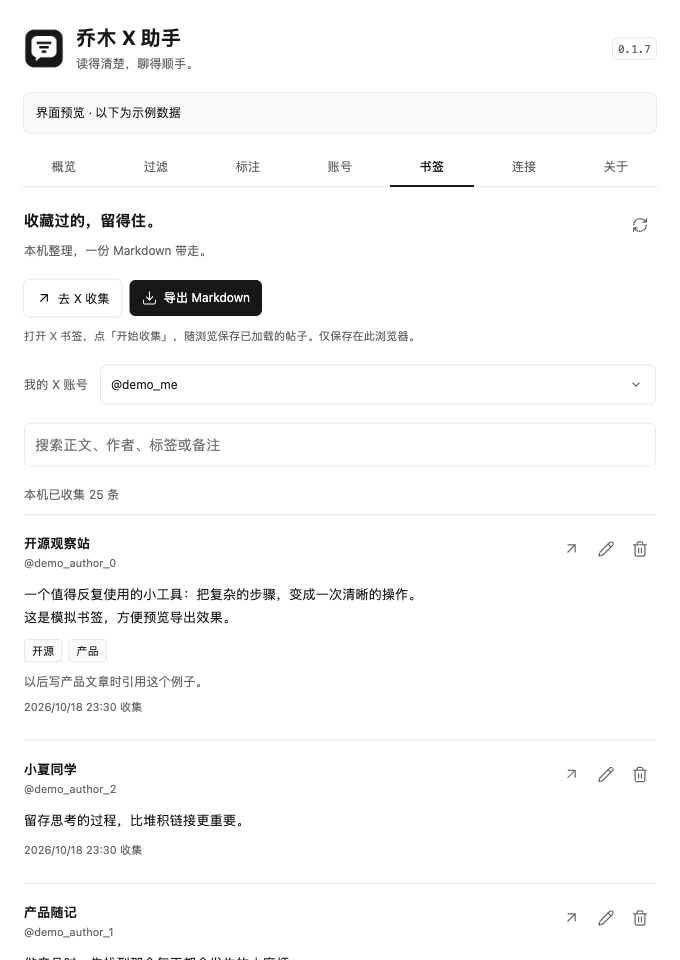
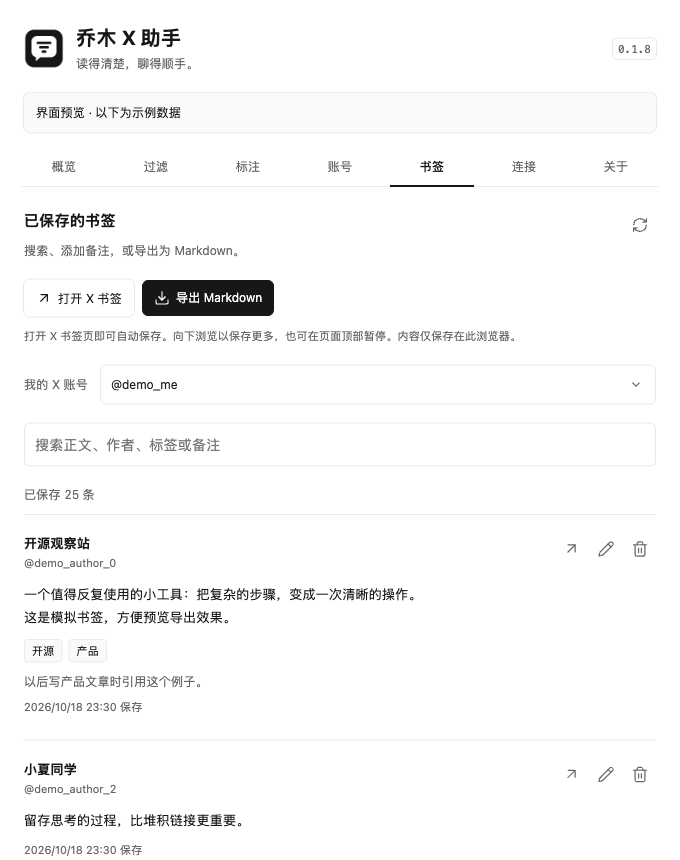
fix: auto-save bookmarks with sticky progress and remembered pause

diff --git a/src/bookmark-content.js b/src/bookmark-content.js
@@ -1,22 +1,61 @@
-import { createElement, Bookmark, ArrowUpRight } from 'lucide';
+import { createElement, BookmarkCheck, ArrowUpRight } from 'lucide';
 import { bookmarkPath } from './bookmarks.js';
 import { extractBookmark } from './bookmark-dom.js';
 import { currentOwner } from './composer.js';
 const send=async m=>{const r=await chrome.runtime.sendMessage(m);if(!r?.ok)throw Error(r?.error||'扩展已更新，请刷新 X。');return r.data;};
 const el=(tag,text)=>{const n=document.createElement(tag);if(text)n.textContent=text;return n;};
-let host,root,status,toggle,open,active=false,owner='',route='',generation=0,busy=false,dirty=false,timer=null,total=0;
-const seen=new Map(),sessionIds=new Set();
-function stop(){active=false;generation++;if(toggle){toggle.textContent='继续收集';toggle.setAttribute('aria-pressed','false');}}
+let host,title,status,toggle,open,active=false,owner='',route='',generation=0,busy=false,dirty=false,timer=null,total=null;
+let mode='loading',error='',configuring=false,headers=[],positionFrame=0,accountChanged=false;
+const seen=new Map();
+function stop(){active=false;generation++;}
+function render(){
+  if(!host)return;
+  title.textContent=total===null?(mode==='account'?'已停止保存':mode==='login'?'自动保存书签':mode==='error'?'暂时无法保存':'正在读取书签…'):`已保存 ${total.toLocaleString()} 条`;
+  status.textContent=error||(mode==='loading'?'正在读取保存进度…':mode==='paused'?'已暂停 · 点击继续保存':mode==='account'?'账号已切换，刷新页面后继续。':mode==='login'?'登录 X 后，自动保存浏览到的书签。':'继续向下浏览，自动保存更多。');
+  toggle.textContent=mode==='error'?'重试':active?'暂停':'继续保存';
+  toggle.setAttribute('aria-pressed',String(active));toggle.setAttribute('aria-label',active?'暂停自动保存书签':mode==='error'?'重试保存书签':'继续自动保存书签');
+  toggle.disabled=configuring||['loading','account','login'].includes(mode);
+}
 function appearance(){if(!host)return;const rgb=getComputedStyle(document.body).backgroundColor.match(/\d+/g)?.slice(0,3).map(Number),dark=rgb&&rgb.reduce((a,b)=>a+b,0)<350;host.setAttribute('data-theme',dark?'dark':'light');}
+function discoverHeaders(main){
+  const found=new Set();
+  for(const anchor of main.querySelectorAll('nav,[role=navigation],[role=tablist],h1,h2,[role=heading]')){
+    if(anchor.closest('article')||!(anchor.compareDocumentPosition(host)&Node.DOCUMENT_POSITION_FOLLOWING))continue;
+    for(let n=anchor;n&&n!==main;n=n.parentElement)if(['sticky','fixed'].includes(getComputedStyle(n).position))found.add(n);
+  }
+  headers=[...found];position();
+}
+function position(){
+  if(positionFrame)return;
+  positionFrame=requestAnimationFrame(()=>{positionFrame=0;if(!host?.isConnected)return;
+    const bottom=Math.max(0,...headers.filter(n=>n.isConnected).map(n=>{const r=n.getBoundingClientRect();return r.top<innerHeight/2&&r.height<innerHeight/2?r.bottom:0;}));
+    const value=`${Math.max(0,Math.ceil(bottom))}px`;
+    if(host.style.getPropertyValue('--qb-top')!==value)host.style.setProperty('--qb-top',value);
+  });
+}
 function mount(region){
   if(host?.isConnected)return;
-  host=el('div');host.className='qm-bookmarks-host';root=host.attachShadow({mode:'open'});
-  const style=el('style');style.textContent=`:host{display:block;flex:none;min-width:0;--bg:#fff;--ink:#171717;--muted:#666;--line:#eaeaea;--soft:#f5f5f5;color:var(--ink);background:var(--bg);font:13px/1.5 -apple-system,BlinkMacSystemFont,"Segoe UI","PingFang SC",sans-serif}:host([data-theme=dark]){--bg:#111;--ink:#ededed;--muted:#aaa;--line:#333;--soft:#222}*{box-sizing:border-box}section{padding:14px 16px;border-bottom:1px solid var(--line);display:flex;align-items:center;gap:14px;flex-wrap:wrap}.info{flex:1;min-width:140px}b{display:flex;align-items:center;gap:7px;font-size:13px;font-weight:600}p{margin:4px 0 0;color:var(--muted);font-size:12px}button{appearance:none;border:0;border-radius:6px;padding:8px 10px;color:var(--ink);background:var(--soft);cursor:pointer;font:inherit;font-size:12px;display:inline-flex;align-items:center;justify-content:center;gap:4px}button:hover{filter:brightness(.94)}button:active{filter:brightness(.88)}button:focus-visible{outline:1px solid var(--muted);outline-offset:2px}button[aria-pressed=true]{background:var(--ink);color:var(--bg)}.actions{display:flex;gap:6px;flex-wrap:wrap}svg{width:15px;height:15px;flex:none}button:disabled{opacity:.5;cursor:wait}`;
-  const section=el('section'),info=el('div');info.className='info';const title=el('b','书签，留一份在本机');title.prepend(createElement(Bookmark,{'aria-hidden':'true','stroke-width':1.7}));status=el('p','点击开始，向下浏览时收集已加载的书签。');status.setAttribute('role','status');info.append(title,status);
-  const actions=el('div');actions.className='actions';toggle=el('button','开始收集');toggle.type='button';toggle.setAttribute('aria-pressed','false');
-  open=el('button','查看 / 导出');open.type='button';open.append(createElement(ArrowUpRight,{'aria-hidden':'true','stroke-width':1.7}));if(active){toggle.textContent='暂停收集';toggle.setAttribute('aria-pressed','true');}actions.append(toggle,open);section.append(info,actions);root.append(style,section);region.before(host);appearance();
-  toggle.onclick=()=>{if(active){stop();status.textContent=`已暂停 · 本次读取 ${sessionIds.size} 条 · 本机 ${total} 条`;return;}const current=currentOwner();if(!current){status.textContent='先登录 X，再开始收集。';return;}if(current!==owner){seen.clear();sessionIds.clear();total=0;}owner=current;route=location.pathname;active=true;generation++;toggle.textContent='暂停收集';toggle.setAttribute('aria-pressed','true');status.textContent='正在收集。继续向下浏览即可。';void collect();};
-  open.onclick=async()=>{open.disabled=true;try{await send({type:'options',page:'bookmarks'});}catch(e){status.textContent=e.message;}finally{open.disabled=false;}};
+  host=el('div');host.className='qm-bookmarks-host';const root=host.attachShadow({mode:'open'});
+  const style=el('style');style.textContent=`:host{display:block;container-type:inline-size;position:sticky;top:var(--qb-top,0px);z-index:2;flex:none;min-width:0;--bg:#fff;--ink:#171717;--muted:#666;--line:#eaeaea;--soft:#f5f5f5;color:var(--ink);background:var(--bg);font:13px/1.5 -apple-system,BlinkMacSystemFont,"Segoe UI","PingFang SC",sans-serif}:host([data-theme=dark]){--bg:#111;--ink:#ededed;--muted:#aaa;--line:#333;--soft:#222}*{box-sizing:border-box}section{padding:12px 16px;border-bottom:1px solid var(--line);display:flex;align-items:center;gap:10px 16px;flex-wrap:wrap;background:var(--bg)}.info{flex:1;min-width:120px}.headline{display:flex;align-items:center;gap:7px}b{font-size:13px;font-weight:600;font-variant-numeric:tabular-nums}p{margin:3px 0 0;color:var(--muted);font-size:12px}button{appearance:none;border:0;border-radius:6px;padding:8px 10px;color:var(--ink);background:var(--soft);cursor:pointer;font:inherit;font-size:12px;display:inline-flex;align-items:center;justify-content:center;gap:4px;min-height:34px}button:hover{filter:brightness(.94)}button:active{filter:brightness(.88)}button:focus-visible{outline:1px solid var(--muted);outline-offset:2px}.toggle{min-width:68px;background:transparent}.toggle:hover{background:var(--soft)}.actions{display:flex;gap:6px;flex:none}svg{width:15px;height:15px;flex:none}button:disabled{opacity:.5;cursor:default}@container(max-width:420px){p{min-height:36px}}`;
+  const section=el('section'),info=el('div');info.className='info';const headline=el('div');headline.className='headline';title=el('b');headline.append(createElement(BookmarkCheck,{'aria-hidden':'true','stroke-width':1.7}),title);status=el('p');info.append(headline,status);info.setAttribute('role','status');info.setAttribute('aria-live','polite');
+  const actions=el('div');actions.className='actions';toggle=el('button');toggle.className='toggle';toggle.type='button';
+  open=el('button','查看 / 导出');open.type='button';open.append(createElement(ArrowUpRight,{'aria-hidden':'true','stroke-width':1.7}));actions.append(toggle,open);section.append(info,actions);root.append(style,section);region.before(host);appearance();render();discoverHeaders(region.closest('[data-testid=primaryColumn]'));
+  toggle.onclick=()=>void configure(!active);
+  open.onclick=async()=>{open.disabled=true;try{await send({type:'options',page:'bookmarks'});}catch(e){error=e.message;render();}finally{open.disabled=false;}};
+}
+async function initialize(){
+  stop();mode=owner?'loading':'login';error='';total=null;render();if(!owner)return;
+  const gen=generation,who=owner,path=route;
+  try{const result=await send({type:'bookmarks-status',owner:who});if(gen!==generation||currentOwner()!==who||location.pathname!==path)return;
+    total=result.count;active=result.automatic;mode=active?'active':'paused';render();if(active)void collect();
+  }catch(e){if(gen===generation){mode='error';error=`无法读取进度：${e.message}`;render();}}
+}
+async function configure(automatic){
+  if(configuring||!owner)return;stop();configuring=true;error='';render();const gen=generation,who=owner,path=route;
+  try{const result=await send({type:'bookmarks-configure',owner:who,automatic});if(gen!==generation||currentOwner()!==who||location.pathname!==path)return;
+    total=result.count;active=result.automatic;mode=active?'active':'paused';
+  }catch(e){if(gen===generation){mode='error';error=`未能保存设置：${e.message}`;}}
+  finally{configuring=false;render();if(active)void collect();}
 }
 async function collect(){
   if(!active)return;if(busy){dirty=true;return;}busy=true;dirty=false;const gen=generation,who=owner;
@@ -26,24 +65,32 @@ async function collect(){
     for(let i=0;i<entries.length;i+=40){
       if(!active||gen!==generation||currentOwner()!==who||location.pathname!==route||!bookmarkPath(location.pathname))return;
       const batch=entries.slice(i,i+40),r=await send({type:'bookmarks-capture',owner:who,items:batch.map(v=>v.item)});
-      if(gen!==generation)return;
-      batch.forEach(({item,stamp})=>{seen.set(item.id,stamp);sessionIds.add(item.id);});while(seen.size>1000)seen.delete(seen.keys().next().value);
-      total=r.count;
+      if(gen!==generation||currentOwner()!==who||location.pathname!==route)return;
+      total=r.count;if(r.automatic===false){stop();mode='paused';render();return;}
+      batch.forEach(({item,stamp})=>seen.set(item.id,stamp));while(seen.size>1000)seen.delete(seen.keys().next().value);
+      render();
     }
-    if(active&&gen===generation)status.textContent=`本次读取 ${sessionIds.size} 条 · 本机 ${total} 条 · 向下浏览继续收集`;
-  }catch(e){if(gen===generation){stop();status.textContent=e.message+' 点击继续可重试。';}}finally{busy=false;if(dirty&&active)schedule();}
+  }catch(e){if(gen===generation){stop();mode='error';error=`保存失败：${e.message}`;render();}}finally{busy=false;if(dirty&&active)schedule();}
 }
 function scan(){
   timer=null;const path=location.pathname,current=currentOwner();
-  if(!bookmarkPath(path)){stop();host?.remove();host=null;seen.clear();sessionIds.clear();owner='';return;}
-  if(active&&(owner!==current||route!==path)){stop();seen.clear();sessionIds.clear();status.textContent='页面或账号已切换，点击继续收集。';}
-  const region=document.querySelector('[data-testid="primaryColumn"] [role="region"]');if(region)mount(region);appearance();if(active)void collect();
+  if(!bookmarkPath(path)){stop();host?.remove();host=null;seen.clear();owner='';route=path;accountChanged=false;return;}
+  const region=document.querySelector('[data-testid="primaryColumn"] [role="region"]');if(!region)return;
+  const changedRoute=route!==path,changedOwner=owner!==current;
+  // On an in-place account switch the visible tweets can still belong to the
+  // previous account. Wait for a fresh page instead of copying those across.
+  if(owner&&changedOwner&&!changedRoute){stop();accountChanged=true;mode='account';error='';total=null;owner=current;seen.clear();}
+  const start=!accountChanged&&(changedRoute||changedOwner||!route);route=path;owner=current;
+  mount(region);appearance();if(!headers.length||headers.some(n=>!n.isConnected))discoverHeaders(region.closest('[data-testid=primaryColumn]'));else position();
+  if(start)void initialize();else if(active)void collect();else render();
 }
 function schedule(){if(!timer)timer=setTimeout(scan,250);}
 new MutationObserver(records=>{if(records.some(r=>!host?.contains(r.target)))schedule();}).observe(document.body,{childList:true,subtree:true,characterData:true,attributes:true,attributeFilter:['href','data-testid','aria-selected']});
 const theme=new MutationObserver(schedule);for(const n of [document.body,document.documentElement])theme.observe(n,{attributes:true,attributeFilter:['style','class']});
-window.addEventListener('popstate',schedule);window.addEventListener('scroll',schedule,{passive:true});
-// X changes SPA routes without popstate; a light route guard stops collection
-// immediately on navigation even when no relevant DOM node changed.
-setInterval(()=>{if(location.pathname!==route&&active)scan();else if(bookmarkPath(location.pathname)&&!host?.isConnected)schedule();},1000);
+chrome.runtime.onMessage?.addListener(message=>{
+  if(message.type!=='bookmarks-preference'||message.owner!==owner||configuring||accountChanged||!host?.isConnected)return;
+  stop();total=message.count;active=message.automatic;mode=active?'active':'paused';error='';render();if(active)void collect();
+});
+window.addEventListener('popstate',schedule);window.addEventListener('scroll',()=>{position();schedule();},{passive:true});window.addEventListener('resize',()=>{if(host)discoverHeaders(host.closest('[data-testid=primaryColumn]'));});
+setInterval(()=>{if(location.pathname!==route)scan();else if(bookmarkPath(location.pathname)&&!host?.isConnected)schedule();},1000);
 scan();

diff --git a/test/bookmarks-integration.test.js b/test/bookmarks-integration.test.js
@@ -17,41 +17,41 @@ function environment(){
   const dispatch=(m,url=runtime.getURL('ui.html'),isContent=false)=>new Promise(resolve=>listener(m,{id:runtime.id,url,...(isContent?{tab:{id:1},frameId:0}:{})},resolve));
   return{factory,runtime,dispatch,modelCalls:()=>modelCalls};
 }
-test('X collector requires start, records saved posts through real background, handles recycling and stops on account/route change',async()=>{
+test('X collector auto-saves through real background, handles recycling and stops on account/route change',async()=>{
   const env=environment(),dom=new JSDOM(`<a data-testid="AppTabBar_Profile_Link" href="/me"></a><main data-testid="primaryColumn"><div role="region">${post('1')}${post('2','推荐内容',false)}</div></main>`,{url:'https://x.com/i/history',runScripts:'outside-only',pretendToBeVisual:true});
   let captures=0;dom.window.chrome={runtime:{sendMessage:m=>{if(m.type==='bookmarks-capture')captures++;return env.dispatch(m,dom.window.location.href,true);}}};
   try{dom.window.eval(collector);const d=dom.window.document,root=()=>d.querySelector('.qm-bookmarks-host')?.shadowRoot;
-    await until(()=>root());await wait(300);assert.equal(captures,0,'collecting is opt-in');root().querySelector('button').click();
-    await until(()=>root().textContent.includes('本机 1 条'));assert.equal((await env.dispatch({type:'bookmarks-page',owner:'me'})).data.items.length,1);
+    await until(()=>root());
+    await until(()=>root().textContent.includes('已保存 1 条'));assert.equal((await env.dispatch({type:'bookmarks-page',owner:'me'})).data.items.length,1);
     const a=d.querySelector('article');a.querySelector('a[href*="/status/"]').href='/alice/status/3';a.querySelector('[data-testid=tweetText]').firstChild.data='回收节点的新正文';
-    await until(()=>root().textContent.includes('本机 2 条'));
+    await until(()=>root().textContent.includes('已保存 2 条'));
     d.querySelector('[data-testid=AppTabBar_Profile_Link]').href='/other';await until(()=>root().querySelector('button').getAttribute('aria-pressed')==='false');
     assert.equal((await env.dispatch({type:'bookmarks-page',owner:'other'})).data.count,0);
-    root().querySelector('button').click();await until(()=>root().textContent.includes('本机 1 条'));
+    assert.equal(root().querySelector('button').disabled,true,'old account DOM cannot be copied under the new account');
     dom.window.history.pushState(null,'','/i/history/likes');dom.window.dispatchEvent(new dom.window.PopStateEvent('popstate'));await until(()=>!root());const count=captures;
     d.querySelector('article [data-testid=tweetText]').textContent='喜欢页';await wait(300);assert.equal(captures,count);
-    assert.equal((await env.dispatch({type:'bookmarks-capture',owner:'me',items:[]},dom.window.location.href,true)).ok,false);
+    for(const type of ['bookmarks-capture','bookmarks-status','bookmarks-configure'])assert.equal((await env.dispatch({type,owner:'me',items:[],automatic:false},dom.window.location.href,true)).ok,false);
     for(const type of ['bookmarks-page','bookmarks-state','bookmarks-edit','bookmarks-remove'])assert.equal((await env.dispatch({type,owner:'me',id:'1'},'https://x.com/i/bookmarks',true)).ok,false);
     assert.equal(env.modelCalls(),0);
   }finally{dom.window.close();}
 });
 test('collector retries failed writes without marking them as saved',async()=>{
   const dom=new JSDOM(`<a data-testid="AppTabBar_Profile_Link" href="/me"></a><main data-testid="primaryColumn"><div role="region">${post('1')}</div></main>`,{url:'https://x.com/i/bookmarks',runScripts:'outside-only',pretendToBeVisual:true});let count=0;
-  dom.window.chrome={runtime:{sendMessage:async()=>++count===1?{ok:false,error:'磁盘已满'}:{ok:true,data:{count:1}}}};
-  try{dom.window.eval(collector);const root=dom.window.document.querySelector('.qm-bookmarks-host').shadowRoot;root.querySelector('button').click();await until(()=>root.textContent.includes('磁盘已满'));assert.equal(root.querySelector('button').getAttribute('aria-pressed'),'false');root.querySelector('button').click();await until(()=>root.textContent.includes('本机 1 条'));assert.equal(count,2);}finally{dom.window.close();}
+  dom.window.chrome={runtime:{sendMessage:async m=>m.type==='bookmarks-capture'?(++count===1?{ok:false,error:'磁盘已满'}:{ok:true,data:{count:1,automatic:true}}):{ok:true,data:{count:0,automatic:true}}}};
+  try{dom.window.eval(collector);const root=dom.window.document.querySelector('.qm-bookmarks-host').shadowRoot;await until(()=>root.textContent.includes('磁盘已满'));assert.equal(root.querySelector('button').getAttribute('aria-pressed'),'false');root.querySelector('button').click();await until(()=>root.textContent.includes('已保存 1 条'));assert.equal(count,2);}finally{dom.window.close();}
 });
 test('settings search, notes, export download and removal use persistent data without model calls',async()=>{
   const env=environment();await env.dispatch({type:'bookmarks-capture',owner:'me',items:Array.from({length:25},(_,n)=>({id:String(100+n),handle:'alice',displayName:'艾丽丝',text:'收藏正文 '+n}))},'https://x.com/i/bookmarks',true);
   const dom=new JSDOM(await readFile('public/ui.html','utf8'),{url:env.runtime.getURL('ui.html')+'#bookmarks',runScripts:'outside-only',pretendToBeVisual:true});
   Object.assign(dom.window,{indexedDB:env.factory,IDBKeyRange,TextEncoder,Blob});dom.window.chrome={runtime:{sendMessage:m=>env.dispatch(m)}};dom.window.confirm=()=>true;
   let downloaded;dom.window.URL.createObjectURL=blob=>{downloaded=blob;return'blob:fixture';};dom.window.URL.revokeObjectURL=()=>{};dom.window.HTMLAnchorElement.prototype.click=function(){assert.match(this.download,/x-bookmarks-me-.*\.md/);};
-  try{dom.window.eval(ui);const d=dom.window.document;await until(()=>d.querySelectorAll('.bookmark-row').length===20);assert.equal(d.querySelector('#bookmarks-count').textContent,'本机已收集 25 条');
+  try{dom.window.eval(ui);const d=dom.window.document;await until(()=>d.querySelectorAll('.bookmark-row').length===20);assert.equal(d.querySelector('#bookmarks-count').textContent,'已保存 25 条');
     d.querySelector('#bookmarks-next').click();await until(()=>d.querySelectorAll('.bookmark-row').length===5);
     d.querySelector('.bookmark-row button[aria-label="添加备注与标签"]').click();d.querySelector('#bookmark-note').value='我的阅读想法';d.querySelector('#bookmark-tags').value='开源，工具';d.querySelector('#bookmark-edit-save').click();await until(()=>d.querySelector('.bookmark-note')?.textContent==='我的阅读想法');
     d.querySelector('#bookmark-search').value='阅读想法';d.querySelector('#bookmark-search').dispatchEvent(new dom.window.Event('input'));await until(()=>d.querySelectorAll('.bookmark-row').length===1&&d.querySelector('#bookmarks-export-label').textContent==='导出搜索结果');
     d.querySelector('#bookmarks-export').click();await until(()=>downloaded);const md=await downloaded.text();assert.ok(md.includes('本次导出：1 条'));assert.ok(md.includes('我的阅读想法'));assert.ok(md.includes('开源、工具'));assert.ok(!md.includes('undefined'));assert.equal(env.modelCalls(),0);
     await env.dispatch({type:'clear'});assert.equal((await env.dispatch({type:'bookmarks-page',owner:'me'})).data.count,25);
-    d.querySelector('.bookmark-row button[aria-label="移除本机副本"]').click();await until(()=>d.querySelector('#bookmarks-count').textContent==='本机已收集 24 条');
+    d.querySelector('.bookmark-row button[aria-label="移除本机副本"]').click();await until(()=>d.querySelector('#bookmarks-count').textContent==='已保存 24 条');
   }finally{dom.window.close();}
 });
 test('bookmarks are excluded from the automatic model pipeline even with radar enabled',async()=>{
@@ -61,4 +61,37 @@ test('bookmarks are excluded from the automatic model pipeline even with radar e
     dom.window.IntersectionObserver=class{constructor(fn){this.fn=fn;}observe(target){this.fn([{target,isIntersecting:true}]);}unobserve(){}disconnect(){}};
     try{dom.window.eval(content);await wait(200);assert.deepEqual(calls,['snapshot']);assert.equal(dom.window.document.querySelector('.qb-host'),null);}finally{dom.window.close();}
   }
+});
+
+test('bookmarks save automatically on entry and remember pause after reload',async()=>{
+  const env=environment(),windows=[];
+  const open=()=>{const dom=new JSDOM(`<a data-testid="AppTabBar_Profile_Link" href="/me"></a><main data-testid="primaryColumn"><div role="region">${post('1')}</div></main>`,{url:'https://x.com/i/history',runScripts:'outside-only',pretendToBeVisual:true});windows.push(dom);dom.window.chrome={runtime:{sendMessage:m=>env.dispatch(m,dom.window.location.href,true)}};dom.window.eval(collector);return dom;};
+  try{
+    const first=open(),root=()=>first.window.document.querySelector('.qm-bookmarks-host')?.shadowRoot;
+    await until(()=>root()?.textContent.includes('已保存 1 条'));
+    assert.match(root().textContent,/继续向下浏览/);assert.equal(root().querySelector('button').textContent,'暂停');
+    root().querySelector('button').click();await until(()=>root().textContent.includes('已暂停'));
+    first.window.close();const second=open(),next=()=>second.window.document.querySelector('.qm-bookmarks-host')?.shadowRoot;
+    await until(()=>next()?.textContent.includes('已暂停'));assert.equal(next().querySelector('button').textContent,'继续保存');
+    const region=second.window.document.querySelector('[role=region]');region.insertAdjacentHTML('beforeend',post('3'));await wait(400);
+    assert.equal((await env.dispatch({type:'bookmarks-page',owner:'me'})).data.count,1);
+    next().querySelector('button').click();await until(()=>next().textContent.includes('已保存 2 条'));
+    assert.equal(env.modelCalls(),0);
+  }finally{for(const dom of windows)dom.window.close();}
+});
+
+test('late automatic status cannot restart after navigation; pause broadcasts stop another tab',async()=>{
+  const dom=new JSDOM(`<a data-testid="AppTabBar_Profile_Link" href="/me"></a><main data-testid="primaryColumn"><div role="region">${post('1')}</div></main>`,{url:'https://x.com/i/history',runScripts:'outside-only',pretendToBeVisual:true});let resolveStatus,listener,captures=0;
+  dom.window.chrome={runtime:{onMessage:{addListener:f=>listener=f},sendMessage:m=>m.type==='bookmarks-status'?new Promise(r=>resolveStatus=r):Promise.resolve({ok:true,data:{count:++captures,automatic:true}})}};
+  try{
+    dom.window.eval(collector);await until(()=>resolveStatus);
+    dom.window.history.pushState(null,'','/home');dom.window.dispatchEvent(new dom.window.PopStateEvent('popstate'));await until(()=>!dom.window.document.querySelector('.qm-bookmarks-host'));
+    resolveStatus({ok:true,data:{count:0,automatic:true}});await wait(40);assert.equal(captures,0);
+    dom.window.history.pushState(null,'','/i/bookmarks');dom.window.dispatchEvent(new dom.window.PopStateEvent('popstate'));await until(()=>dom.window.document.querySelector('.qm-bookmarks-host'));
+    resolveStatus({ok:true,data:{count:0,automatic:true}});await until(()=>captures===1);
+    listener({type:'bookmarks-preference',owner:'someone_else',automatic:false,count:20});
+    const root=dom.window.document.querySelector('.qm-bookmarks-host').shadowRoot;assert.equal(root.querySelector('button').getAttribute('aria-pressed'),'true');
+    listener({type:'bookmarks-preference',owner:'me',automatic:false,count:1});assert.match(root.textContent,/已暂停/);
+    dom.window.document.querySelector('[role=region]').insertAdjacentHTML('beforeend',post('2'));await wait(350);assert.equal(captures,1);
+  }finally{dom.window.close();}
 });

diff --git a/public/ui.html b/public/ui.html
@@ -1,7 +1,7 @@
 <!doctype html>
 <html lang="zh-CN"><head><meta charset="utf-8"><meta name="viewport" content="width=device-width, initial-scale=1"><title>乔木 X 助手</title><link rel="stylesheet" href="ui.css"></head>
 <body><main id="app">
-  <header><div class="identity"><img class="brand-icon" src="icons/icon-48.png" alt="" width="40" height="40"><div><h1>乔木 X 助手</h1><p>读得清楚，聊得顺手。</p></div></div><span class="version">0.1.7</span></header>
+  <header><div class="identity"><img class="brand-icon" src="icons/icon-48.png" alt="" width="40" height="40"><div><h1>乔木 X 助手</h1><p>读得清楚，聊得顺手。</p></div></div><span class="version">0.1.8</span></header>
   <div id="demo-note" hidden>界面预览 · 以下为示例数据</div>
   <nav aria-label="设置页面"><button data-tab="overview" class="selected">概览</button><button data-tab="rules">过滤</button><button data-tab="annotations">标注</button><button data-tab="accounts">账号</button><button data-tab="bookmarks">书签</button><button data-tab="model">连接</button><button data-tab="about">关于</button></nav>
   <div id="notice" role="status" aria-live="polite" hidden></div>
@@ -77,15 +77,15 @@
     </div>
   </section>
   <section id="bookmarks" class="panel" hidden>
-    <div class="page-heading"><div><h2>收藏过的，留得住。</h2><p class="hint">本机整理，一份 Markdown 带走。</p></div><button id="bookmarks-refresh" class="icon-control" aria-label="刷新书签" title="刷新书签" data-icon="RefreshCw"></button></div>
-    <div class="bookmark-toolbar"><a class="secondary" href="https://x.com/i/bookmarks" target="_blank" rel="noopener noreferrer"><span data-icon="ArrowUpRight"></span>去 X 收集</a><button id="bookmarks-export" class="primary" disabled><span data-icon="Download"></span><span id="bookmarks-export-label">导出 Markdown</span></button></div>
-    <p class="hint bookmark-help">打开 X 书签，点「开始收集」，随浏览保存已加载的帖子。仅保存在此浏览器。</p>
+    <div class="page-heading"><div><h2>已保存的书签</h2><p class="hint">搜索、添加备注，或导出为 Markdown。</p></div><button id="bookmarks-refresh" class="icon-control" aria-label="刷新书签" title="刷新书签" data-icon="RefreshCw"></button></div>
+    <div class="bookmark-toolbar"><a class="secondary" href="https://x.com/i/bookmarks" target="_blank" rel="noopener noreferrer"><span data-icon="ArrowUpRight"></span>打开 X 书签</a><button id="bookmarks-export" class="primary" disabled><span data-icon="Download"></span><span id="bookmarks-export-label">导出 Markdown</span></button></div>
+    <p class="hint bookmark-help">打开 X 书签页即可自动保存。向下浏览以保存更多，也可在页面顶部暂停。内容仅保存在此浏览器。</p>
     <label class="field contact-owner-field"><span>我的 X 账号</span><select id="bookmark-owner" aria-label="书签所属账号"></select></label>
     <label class="field"><span class="sr-only">搜索书签</span><input id="bookmark-search" type="search" maxlength="160" placeholder="搜索正文、作者、标签或备注"></label>
-    <div class="bookmark-count" id="bookmarks-count" role="status">本机已收集 0 条</div>
+    <div class="bookmark-count" id="bookmarks-count" role="status">已保存 0 条</div>
     <div id="bookmark-editor" class="contact-editor" hidden><h3>留一点想法，下次更好找。</h3><form id="bookmark-edit-form"><label class="field"><span>备注</span><textarea id="bookmark-note" maxlength="2000" rows="3" placeholder="为什么收藏这条？"></textarea></label><label class="field"><span>标签</span><input id="bookmark-tags" maxlength="400" placeholder="用逗号分隔，例如：开源，产品"></label><div class="button-row"><button id="bookmark-edit-save" class="primary">保存</button><button id="bookmark-edit-cancel" type="button" class="secondary">取消</button></div></form></div>
     <div id="bookmark-list" aria-live="polite"></div><div class="pagination"><button id="bookmarks-prev" class="secondary">上一页</button><span id="bookmarks-page">第 1 页</span><button id="bookmarks-next" class="secondary">下一页</button></div>
-    <p class="hint bookmark-help">数量以本机实际收集为准。长帖可能仅有未展开的片段；X 收藏时间未知，以首次收集时间记录。导出保留原帖与图片链接，视频在原帖查看。</p>
+    <p class="hint bookmark-help">这里只显示已保存的书签，不代表全部收藏。长帖请在 X 展开后保存；记录时间为首次保存时间。导出保留原帖和图片链接，视频请在原帖查看。</p>
   </section>
   <section id="model" class="panel" hidden>
     <h2>连接一次，随时可用。</h2><p class="hint">用你的 Jev 密钥开始。验证成功后会自动保存。</p>

diff --git a/src/ui-bookmarks.js b/src/ui-bookmarks.js
@@ -9,18 +9,18 @@ export function initBookmarksUI({send,notice,glyph,getStore}){
     if(reset){index=0;cursors=[null];}const gen=++epoch,list=$('bookmark-list');list.setAttribute('aria-busy','true');$('bookmarks-prev').disabled=$('bookmarks-next').disabled=true;$('bookmarks-export').disabled=true;
     try{const page=owner?await send({type:'bookmarks-page',owner,query:$('bookmark-search').value,before:cursors[index]}):{items:[],count:0,next:null};
       if(gen!==epoch)return;next=page.next;list.replaceChildren();if(!page.items.length&&index){index--;return load();}
-      $('bookmarks-count').textContent=`本机已收集 ${page.count.toLocaleString()} 条`;
-      if(!page.items.length)list.append(el('p',!owner||!page.count?'把想留住的帖子，带回来。打开 X 书签，点「开始收集」，再向下浏览。':$('bookmark-search').value?'没有找到。试试正文、作者、标签或备注。':'还没有收集到书签。','empty-state'));
+      $('bookmarks-count').textContent=`已保存 ${page.count.toLocaleString()} 条`;
+      if(!page.items.length)list.append(el('p',!owner||!page.count?'打开 X 书签页，浏览过的书签会自动保存到这里。继续向下浏览，就能保存更多。':$('bookmark-search').value?'没有找到。试试正文、作者、标签或备注。':'还没有保存书签。','empty-state'));
       for(const row of page.items){
         const card=el('article',null,'bookmark-row');card.dataset.id=row.id;
         const head=el('div',null,'bookmark-head'),person=el('div');person.append(el('b',row.displayName||'@'+row.handle),el('span','@'+row.handle));
         const actions=el('div',null,'bookmark-actions'),url=el('a',null,'icon-control');url.href=row.url;url.target='_blank';url.rel='noopener noreferrer';url.title='打开原帖';url.setAttribute('aria-label','打开原帖');url.append(glyph('ArrowUpRight'));
-        const boundOwner=owner;actions.append(url,action('添加备注与标签','Pencil',()=>edit(row)),action('移除本机副本','Trash2',async()=>{if(!confirm('移除这条本机副本？X 上的书签会保留，再次收集时可重新加入。'))return;await send({type:'bookmarks-remove',owner:boundOwner,id:row.id});await load();}));head.append(person,actions);
+        const boundOwner=owner;actions.append(url,action('添加备注与标签','Pencil',()=>edit(row)),action('移除本机副本','Trash2',async()=>{if(!confirm('移除这条本机副本？X 上的书签会保留，再次浏览时会重新保存。'))return;await send({type:'bookmarks-remove',owner:boundOwner,id:row.id});await load();}));head.append(person,actions);
         const body=el('p',row.text||'图片 / 视频帖子，打开原帖查看。','bookmark-text');card.append(head,body);
         if(row.partial||row.translated)card.append(el('p',[row.partial?'正文未展开':null,row.translated?'X 显示的译文':null].filter(Boolean).join(' · '),'bookmark-state'));
         if(row.tags.length){const tags=el('div',null,'bookmark-tags');for(const t of row.tags)tags.append(el('span',t));card.append(tags);}
         if(row.note)card.append(el('p',row.note,'bookmark-note'));
-        card.append(el('p',`${date(row.collectedAt)} 收集${row.images.length?' · '+row.images.length+' 张图片':''}${row.hasVideo?' · 含视频':''}`,'bookmark-meta'));list.append(card);
+        card.append(el('p',`${date(row.collectedAt)} 保存${row.images.length?' · '+row.images.length+' 张图片':''}${row.hasVideo?' · 含视频':''}`,'bookmark-meta'));list.append(card);
       }
       $('bookmarks-page').textContent=`第 ${index+1} 页 · 每页 20 条`;$('bookmarks-prev').disabled=index===0;$('bookmarks-next').disabled=!next;
       $('bookmarks-export').disabled=exporting||!page.items.length;$('bookmarks-export-label').textContent=$('bookmark-search').value.trim()?'导出搜索结果':'导出 Markdown';

diff --git a/src/bookmarks.js b/src/bookmarks.js
@@ -47,12 +47,19 @@ export class Bookmarks{
     const items=[...new Map(inputs.map(v=>{const c=cleanBookmark(v);return[c.id,c];})).values()];
     const db=await this.db,tx=db.transaction(['bookmarks','owners'],'readwrite'),done=finished(tx),s=tx.objectStore('bookmarks'),o=tx.objectStore('owners');
     let added=0;const profile=await request(o.get(owner));
+    if(profile?.automatic===false){await done;return{added:0,count:profile.count||0,automatic:false};}
     for(const c of items){const old=await request(s.get([owner,c.id]));if(!old)added++;
       // A shorter/truncated revisit must not overwrite previously expanded text.
       const content=old&&((!old.partial&&c.partial)||(old.partial===c.partial&&old.text.length>c.text.length))?{...c,text:old.text,partial:old.partial,translated:old.translated,links:[...new Set([...old.links,...c.links])].slice(0,30),images:[...new Set([...old.images,...c.images])].slice(0,8),hasVideo:old.hasVideo||c.hasVideo}:c;
       s.put({...content,displayName:content.displayName||old?.displayName||'',publishedAt:content.publishedAt||old?.publishedAt||null,owner,collectedAt:old?.collectedAt||at,lastSeenAt:at,note:old?.note||'',tags:old?.tags||[]});
     }
-    o.put({owner,count:(profile?.count||0)+added,updatedAt:at});await done;return{added,count:(profile?.count||0)+added};
+    o.put({...profile,owner,count:(profile?.count||0)+added,updatedAt:at});await done;return{added,count:(profile?.count||0)+added,automatic:true};
+  }
+  async status(owner){owner=ownerOf(owner);const db=await this.db,tx=db.transaction('owners'),profile=await request(tx.objectStore('owners').get(owner));return{count:profile?.count||0,automatic:profile?.automatic!==false};}
+  async configure(owner,automatic){
+    owner=ownerOf(owner);if(typeof automatic!=='boolean')throw Error('请选择是否自动保存书签。');
+    const db=await this.db,tx=db.transaction('owners','readwrite'),done=finished(tx),s=tx.objectStore('owners'),profile=await request(s.get(owner));
+    s.put({...profile,owner,count:profile?.count||0,updatedAt:profile?.updatedAt||Date.now(),automatic});await done;return{count:profile?.count||0,automatic};
   }
   async state(){const db=await this.db,tx=db.transaction('owners');const owners=await request(tx.objectStore('owners').getAll());owners.sort((a,b)=>b.updatedAt-a.updatedAt);return{owners};}
   async page({owner,query='',before=null,limit=20}={}){

diff --git a/test/fixtures/bookmarks.html b/test/fixtures/bookmarks.html
@@ -1,0 +1,5 @@
+<!doctype html><html lang="zh-CN"><meta charset="utf-8"><meta name="viewport" content="width=device-width, initial-scale=1"><title>书签自动保存 · 模拟页面</title>
+<style>*{box-sizing:border-box}body{margin:0;background:#fff;color:#171717;font:15px/1.6 -apple-system,BlinkMacSystemFont,"PingFang SC",sans-serif}a{color:inherit;text-decoration:none}[data-testid=primaryColumn]{max-width:600px;margin:auto;border-inline:1px solid #eaeaea;display:flex;flex-direction:column}.native-header{position:sticky;top:0;z-index:3;background:#fff}.heading{height:53px;display:flex;align-items:center;padding:0 16px;font-weight:700}.tabs{height:54px;display:flex;border-bottom:1px solid #eaeaea;align-items:center;justify-content:space-around}.tabs a{height:54px;display:flex;align-items:center;padding:0 18px;border-bottom:3px solid #171717}[role=region]{display:flex;flex-direction:column}article{display:flex;padding:20px 16px;gap:12px;border-bottom:1px solid #eaeaea;min-height:300px}.avatar{height:40px;width:40px;flex:none;background:#eee;border-radius:50%;display:grid;place-items:center;color:#444}.body{min-width:0;flex:1}.meta{color:#777;font-size:13px;margin-bottom:10px}.body p{margin:0 0 20px}.media{height:96px;background:#f7f7f7;border-radius:8px;padding:18px;color:#777;font-size:13px}.tools{display:flex;justify-content:space-between;margin-top:18px;color:#888;font-size:13px}.tools button{border:0;background:none;color:inherit}body>a{position:absolute;top:-100px}@media(prefers-color-scheme:dark){body,.native-header{background:#111;color:#ededed}[data-testid=primaryColumn],.tabs,article{border-color:#333}.tabs a{border-color:#ededed}.avatar{background:#333;color:#ddd}.media{background:#222;color:#aaa}}</style>
+<a data-testid="AppTabBar_Profile_Link" href="/demo_me" aria-hidden="true" tabindex="-1"></a>
+<main data-testid="primaryColumn"><div class="native-header"><div class="heading" role="heading">书签 · 模拟页面</div><nav class="tabs"><a href="#" role="tab" aria-selected="true">书签</a><span>喜欢</span></nav></div><div role="region"></div></main>
+<script src="bookmarks.js"></script><script src="../../dist/chrome/bookmark-content.js"></script>

diff --git a/test/fixtures/bookmarks.js b/test/fixtures/bookmarks.js
@@ -1,0 +1,14 @@
+// Synthetic fixture only. Never reads or writes the installed extension store.
+history.replaceState(null,'','/i/bookmarks');
+const region=document.querySelector('[role=region]');
+for(let i=1;i<=24;i++){
+  const a=document.createElement('article');a.dataset.testid='tweet';
+  a.innerHTML=`<div class="avatar">${i%2?'夏':'木'}</div><div class="body"><div data-testid="User-Name"><a href="/demo_author_${i}">${i%2?'小夏同学':'开源观察站'}</a></div><div class="meta">@demo_author_${i} · <a href="/demo_author_${i}/status/${i}"><time datetime="2026-10-18T10:00:00Z">2 小时</time></a></div><p data-testid="tweetText">${i%2?'好工具应该少一步操作，多一点确定感。打开书签页就自动保存，往下浏览就能留下更多。':'把值得留住的内容整理好，下一次需要时，能迅速找到。'}</p><div class="media">示例内容 ${i} · 仅用于界面验证</div><div class="tools"><span>回复</span><span>转发</span><span>喜欢</span><button data-testid="removeBookmark">已收藏</button></div></div>`;region.append(a);
+}
+const rows=new Map();let automatic=true;
+window.chrome={runtime:{onMessage:{addListener(){}},sendMessage:async m=>{
+  if(m.type==='bookmarks-status')return{ok:true,data:{count:rows.size,automatic}};
+  if(m.type==='bookmarks-configure'){automatic=m.automatic;return{ok:true,data:{count:rows.size,automatic}};}
+  if(m.type==='bookmarks-capture'){if(automatic)m.items.forEach(row=>rows.set(row.id,row));return{ok:true,data:{count:rows.size,automatic}};}
+  return{ok:true,data:{}};
+}}};

diff --git a/src/background.js b/src/background.js
@@ -35,7 +35,12 @@ chrome.runtime.onMessage.addListener((message, sender, reply) => {
     if(message.type==='contacts-reply'&&who==='content'){if(!/^\d{1,25}$/.test(message.replyId||''))throw Error('缺少回复成功凭据');return contacts.put(message.owner,message.contact,{replyId:message.replyId});}
     if(message.type==='contacts-refresh'&&who==='content')return contacts.refresh(message.owner,message.items);
     if(message.type==='contacts-use')return contacts.use(message.owner,message.handle);
-    if(message.type==='bookmarks-capture'&&who==='content'){if(!bookmarkPath(new URL(sender.url).pathname))throw Error('请在 X 的书签页开始收集。');return bookmarks.capture(message.owner,message.items);}
+    if(['bookmarks-status','bookmarks-configure','bookmarks-capture'].includes(message.type)&&who==='content'){
+      if(!bookmarkPath(new URL(sender.url).pathname))throw Error('请打开 X 的书签页。');
+      if(message.type==='bookmarks-status')return bookmarks.status(message.owner);
+      if(message.type==='bookmarks-configure'){const result=await bookmarks.configure(message.owner,message.automatic);await broadcast({type:'bookmarks-preference',owner:message.owner,...result});return result;}
+      return bookmarks.capture(message.owner,message.items);
+    }
     if (who !== 'admin') throw new Error('只能在扩展设置中执行此操作');
     if(message.type==='bookmarks-state')return bookmarks.state();
     if(message.type==='bookmarks-page')return bookmarks.page(message);

diff --git a/test/bookmarks.test.js b/test/bookmarks.test.js
@@ -53,3 +53,15 @@ test('DOM collection excludes unsaved posts, quotes and promotions, preserves em
   const a=dom.window.document.querySelector('article'),c=extractBookmark(a);assert.equal(c.id,'123');assert.equal(c.text,'你好🌳\n第二行 例子');assert.equal(c.displayName,'艾丽丝');assert.equal(c.partial,true);assert.equal(c.translated,true);assert.equal(c.images.length,1);assert.equal(c.hasVideo,true);assert.equal(c.hasQuote,true);
   dom.window.document.querySelector('#saved').remove();assert.equal(extractBookmark(a),null,'quoted saved-state is not the parent saved-state');dom.window.close();
 });
+
+test('automatic saving defaults on, persists per-account pause and rejects late captures while paused',async()=>{
+  const factory=new IDBFactory(),store=new Bookmarks(factory);
+  assert.deepEqual(await store.status('me'),{count:0,automatic:true});
+  await store.capture('me',[item()]);await store.configure('me',false);
+  assert.deepEqual(await store.capture('me',[item('2')]),{count:1,added:0,automatic:false});
+  assert.deepEqual(await new Bookmarks(factory).status('me'),{count:1,automatic:false});
+  assert.equal((await store.status('other')).automatic,true);
+  await store.remove('me','1');assert.deepEqual(await store.status('me'),{count:0,automatic:false});
+  await store.configure('me',true);await store.capture('me',[item('2')]);assert.deepEqual(await store.status('me'),{count:1,automatic:true});
+  await assert.rejects(store.configure('me','false'),/请选择/);
+});

diff --git a/docs/QA.md b/docs/QA.md
@@ -1,3 +1,21 @@
+# 0.1.8 Preview 自动保存、吸顶进度与文案
+
+更新：2026-10-18。默认自动保存取代 0.1.7 每次手动开始；旧版记录保留在下方。
+
+## 已验证
+
+- `npm run package`：97 项测试通过，Chrome MV3 0.1.8 构建与 ZIP 完成。先加入「进入即保存、刷新后保持暂停」回归，在 0.1.7 上失败，修复后通过。新增覆盖账号独立偏好、持久暂停、暂停时拒绝迟到写入、离页后迟到状态不重启，以及另一标签页暂停广播。
+- 真实 X 最终构建：生产书签脚本注入任务标签页，后台为内存替身。无需点击即读取 4 条；滚动 1,600 px 后增至 7 条。原文宽度前后均为 518 px；状态条宽 598 px、高 65.5 px，顶部始终为 107 px，紧接 X 原生标题 / 标签导航。点击暂停后显示「已保存 7 条 / 已暂停 · 点击继续保存」。未把真实书签写入测试库，也未执行 X 收藏操作。
+- 浏览器模拟页：600 px 浅色、360 px 深色截图已实际查看；深色背景 rgb(17,17,17)，不透出正文。360 px scrollWidth=360。窄屏自动保存 / 暂停 / 继续三次切换，状态条高度均 83.5 px、顶部均 107 px，scrollY 均 500、同一帖顶部均 313.09375 px。
+- 书签管理页重写为「已保存的书签」「打开 X 书签」「已保存 N 条」；真实浏览器 680 px 浅色截图已查看。生产设置 UI 的搜索、备注、下载内容与移除回归继续通过。
+- 保存计数只在后台确认成功后更新。保存失败显示原因与重试；刷新默认自动开启，但已明确暂停的账号保持暂停。原地切换账号、旧 DOM 仍在时先停止并提示刷新；离开书签页停止读取。
+
+## 验证边界
+
+真实 X 验证的是生产内容脚本、原生滚动与布局，后台使用内存替身；生产消息处理器、IndexedDB、偏好持久化与导出由隔离集成测试验证。未更新用户已安装扩展的运行实例，MV3 休眠唤醒及全部 X 页面变体仍待实际使用验证；本轮未调用 Jev。书签仍仅保存页面已加载的内容，不保证全部历史。
+
+---
+
 # 0.1.7 Preview 书签收集与 Markdown 导出
 
 更新：2026-10-18。书签功能从本版开始实现；下面保留旧版本的“未实现”历史记录。
